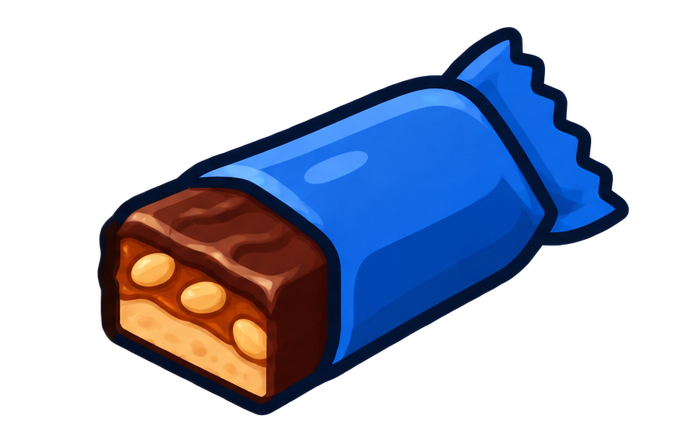
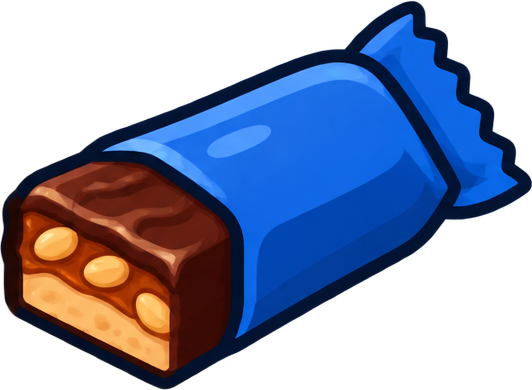
fix snickers images

diff --git a/snickers.py b/snickers.py
@@ -6,13 +6,8 @@ class Snickers:
         self.rect = pygame.Rect(x, y, width, height)
         self.player_number = player_number
         self.collected = False
-
         self.image = pygame.image.load(image_path).convert_alpha()
-
-        self.image = pygame.transform.scale(
-            self.image,
-            (width, height)
-        )
+        self.image = pygame.transform.scale(self.image,(width, height))
 
     def collect(self):
         self.collected = True
